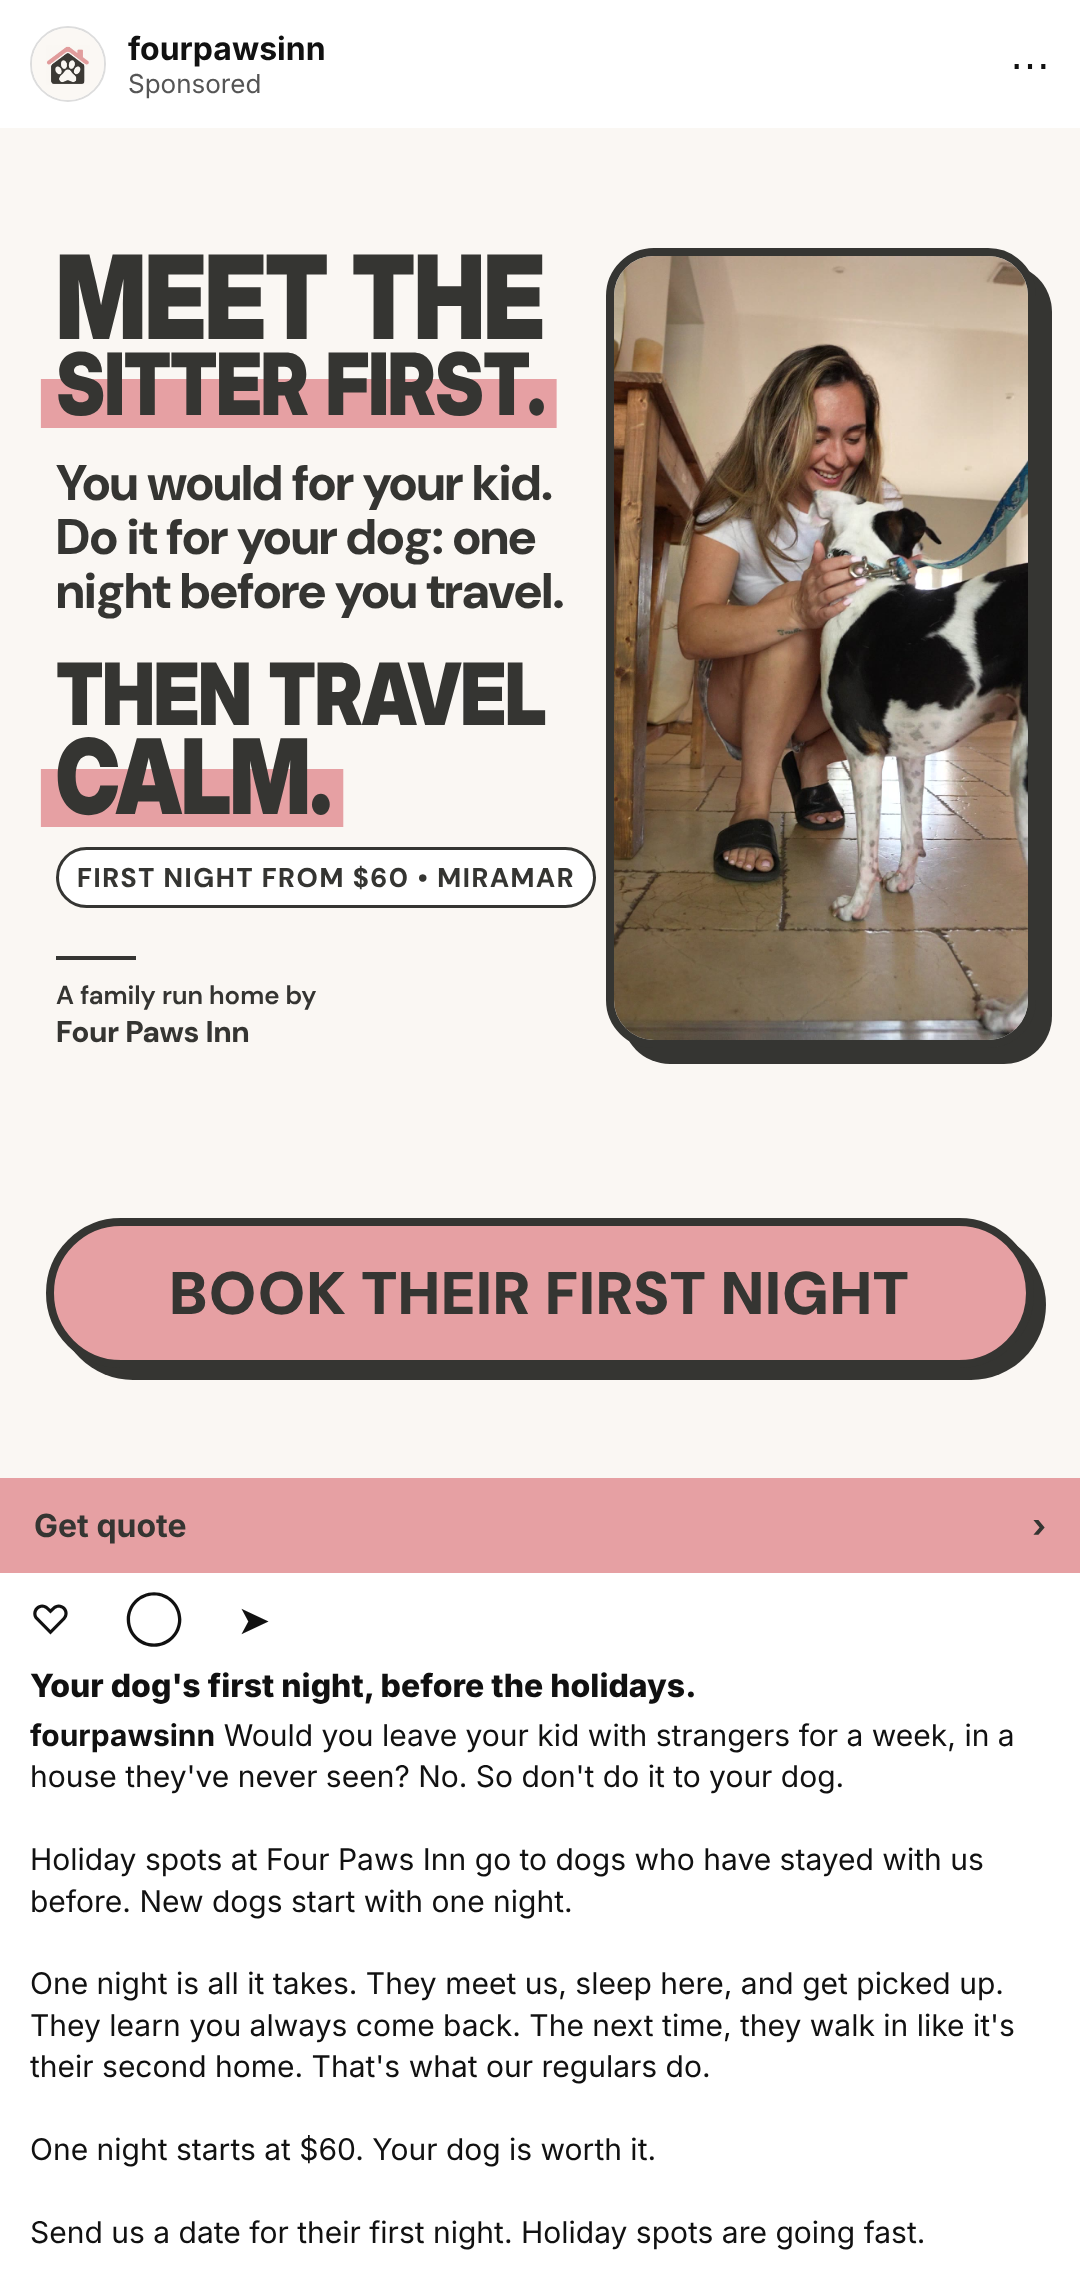
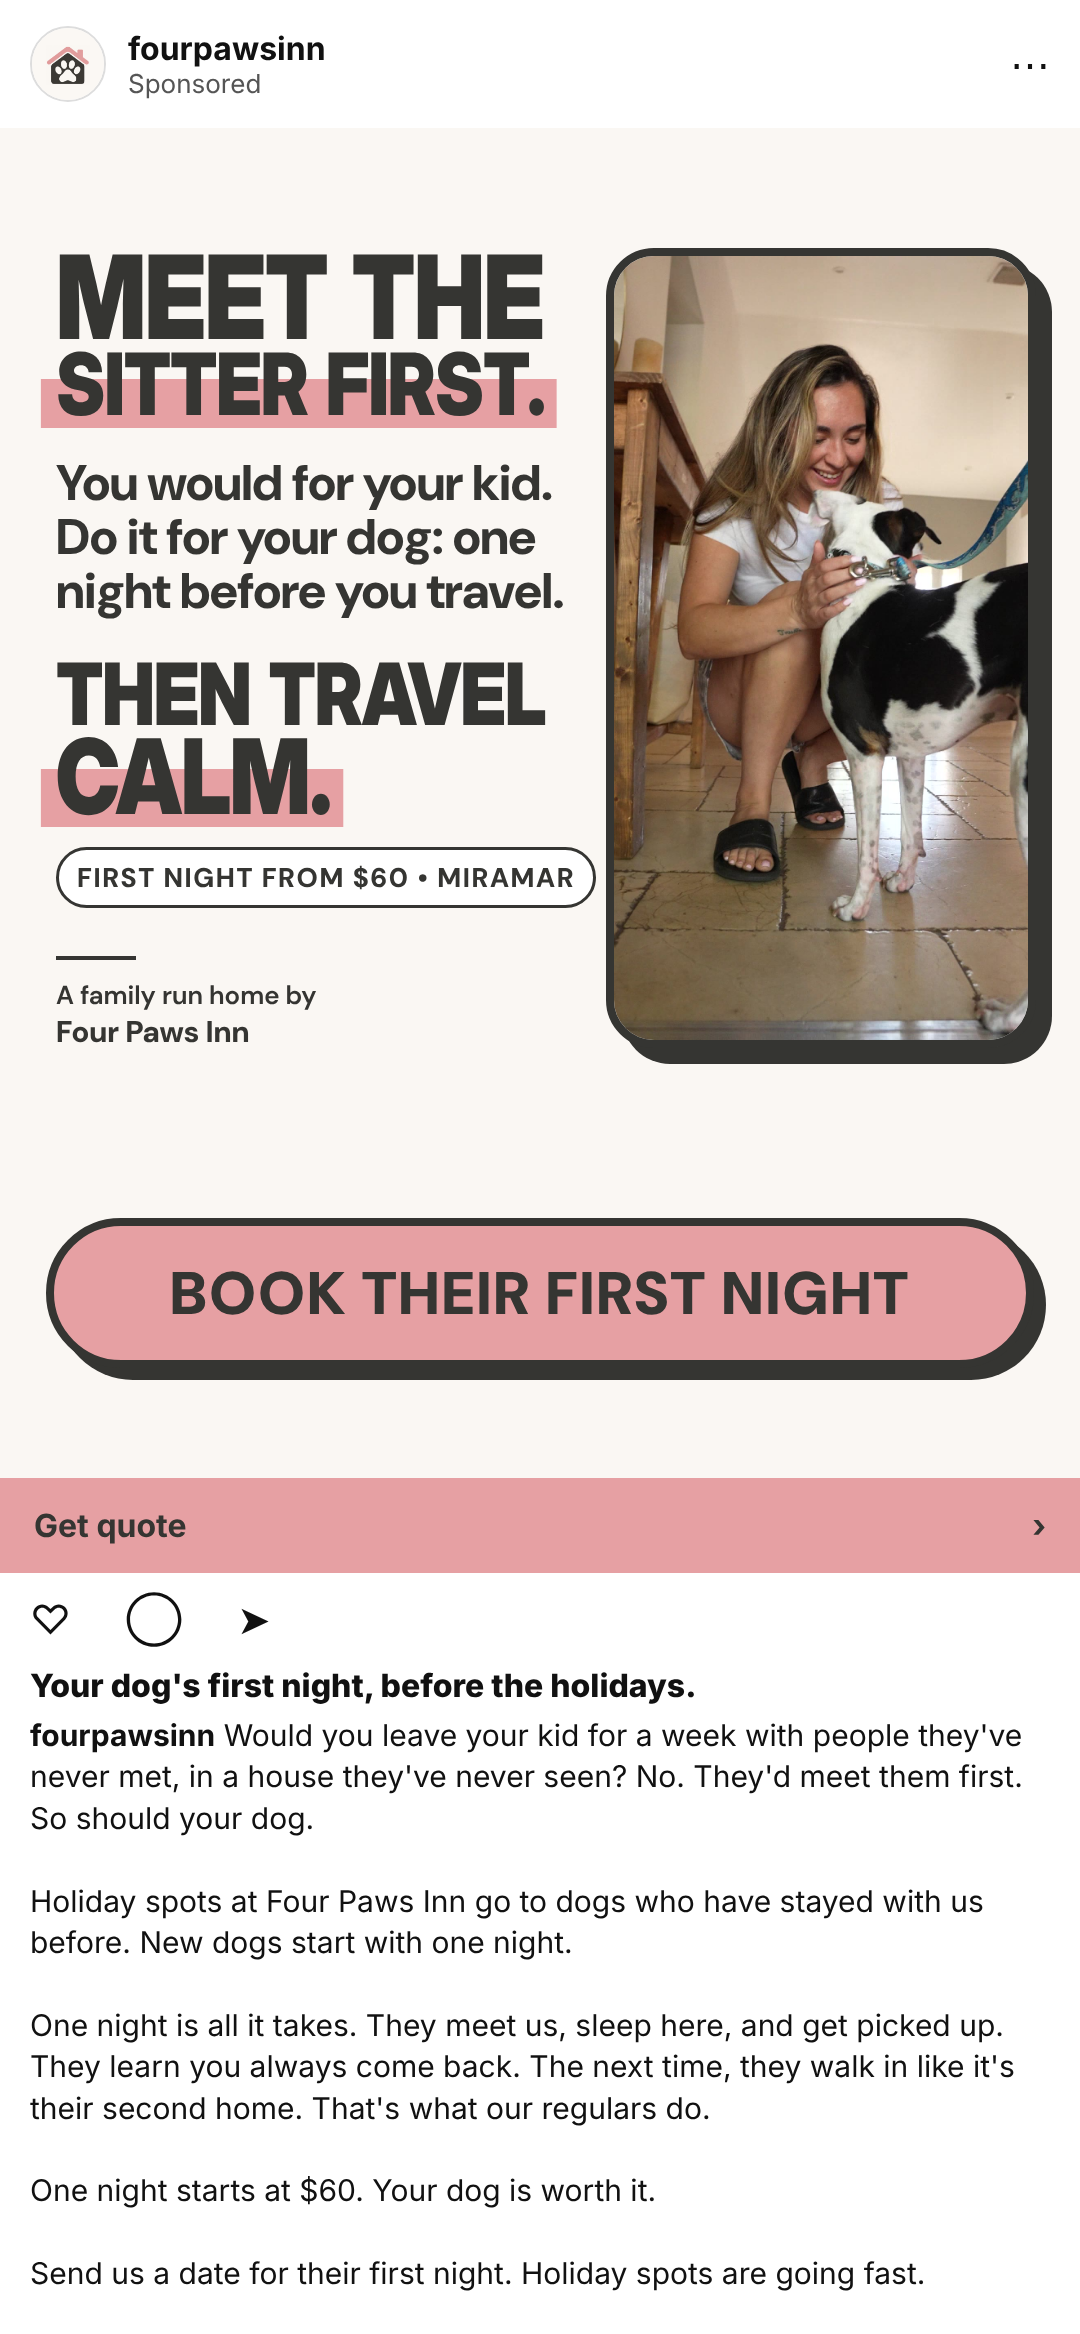
AD61 meet us first, AD68 do it the right way (Alex notes)
Claude-Session: https://claude.ai/code/session_01CuiBP4cscBkzuvo8JUyMNz

diff --git a/content/ads/statics/2026-11-03-first-night-v3/render.js b/content/ads/statics/2026-11-03-first-night-v3/render.js
@@ -2,10 +2,10 @@ const fs=require("fs"),path=require("path");const {chromium}=require("playwright
 const F=(n)=>fs.readFileSync(path.join(__dirname,"../../../../scripts/morning-posts/fonts",n)).toString("base64");
 const ph=(n)=>fs.readFileSync(path.join(__dirname,"photos",n)).toString("base64");
 const ads=[
- {id:"AD61-NOT-WITH-YOUR-KID",a:"NOT WITH",b:"YOUR KID.",sub:"You'd never leave them with strangers for a week. So don't do it to your dog.",c:"TRY 1 NIGHT",d:"FIRST.",tag:"FIRST NIGHT FROM $60  •  MIRAMAR",photo:"couch-husky.jpg",pos:"30% 50%",btn:"BOOK THEIR FIRST NIGHT",bs:60},
+ {id:"AD61-NOT-WITH-YOUR-KID",a:"NOT WITH",b:"YOUR KID.",sub:"You'd never leave them for a week with people they've never met. So let your dog meet us first.",c:"TRY 1 NIGHT",d:"FIRST.",tag:"FIRST NIGHT FROM $60  •  MIRAMAR",photo:"couch-husky.jpg",pos:"30% 50%",btn:"BOOK THEIR FIRST NIGHT",bs:60},
  {id:"AD66-FIRST-SLEEPOVER",a:"FIRST",b:"SLEEPOVER.",sub:"Your kid had one. Give your dog one too, before the holiday trip.",c:"1 NIGHT.",d:"FROM $60.",tag:"BEFORE THE HOLIDAYS  •  MIRAMAR",photo:"puppy-bed.jpg",pos:"30% 50%",btn:"BOOK THEIR FIRST NIGHT",bs:60},
  {id:"AD67-MEET-THE-SITTER",a:"MEET THE",b:"SITTER FIRST.",sub:"You would for your kid. Do it for your dog: one night before you travel.",c:"THEN TRAVEL",d:"CALM.",tag:"FIRST NIGHT FROM $60  •  MIRAMAR",photo:"kneel-indoor.jpg",pos:"50% 50%",btn:"BOOK THEIR FIRST NIGHT",bs:60},
- {id:"AD68-FIRST-NIGHT-ON-CHRISTMAS",a:"FIRST NIGHT",b:"ON CHRISTMAS?",sub:"New place, new faces, and you're gone for days. Do one night now.",c:"1 NIGHT NOW.",d:"FROM $60.",tag:"BEFORE THE HOLIDAYS  •  MIRAMAR",photo:"hug-white-dog.jpg",pos:"35% 50%",btn:"BOOK THEIR FIRST NIGHT",bs:60},
+ {id:"AD68-FIRST-NIGHT-ON-CHRISTMAS",a:"FIRST NIGHT",b:"ON CHRISTMAS?",sub:"New place, new faces, and you're gone for days. Do it the right way.",c:"1 NIGHT NOW.",d:"FROM $60.",tag:"BEFORE THE HOLIDAYS  •  MIRAMAR",photo:"hug-white-dog.jpg",pos:"35% 50%",btn:"BOOK THEIR FIRST NIGHT",bs:60},
  {id:"AD69-NEW-DOG-NOT-ON-HOLIDAYS",a:"NEW DOG?",b:"NOT ON HOLIDAYS.",sub:"Holiday spots go to dogs who have stayed with us before.",c:"BOOK 1 NIGHT",d:"NOW.",tag:"FIRST NIGHT FROM $60  •  MIRAMAR",photo:"yard-lab.jpg",pos:"78% 50%",btn:"BOOK THEIR FIRST NIGHT",bs:60},
  {id:"AD70-A-WEEK-ON-DAY-ONE",a:"A WEEK AWAY",b:"ON DAY ONE?",sub:"You'd never do that to your kid. Start your dog with one night.",c:"START WITH",d:"1 NIGHT.",tag:"FIRST NIGHT FROM $60  •  MIRAMAR",photo:"lab-pool.jpg",pos:"50% 50%",btn:"BOOK THEIR FIRST NIGHT",bs:60}
 ];

diff --git a/content/ads/statics/2026-11-03-first-night-v3/preview.js b/content/ads/statics/2026-11-03-first-night-v3/preview.js
@@ -1,7 +1,7 @@
 const fs=require("fs"),path=require("path");const {chromium}=require("playwright");
 const F=(n)=>fs.readFileSync(path.join(__dirname,"../../../../scripts/morning-posts/fonts",n)).toString("base64");
 const logo=fs.readFileSync(path.join(__dirname,"../../../brand/logo-icon-square-1080.png")).toString("base64");
-const A=`Would you leave your kid with strangers for a week, in a house they've never seen? No. So don't do it to your dog.<br><br>Holiday spots at Four Paws Inn go to dogs who have stayed with us before. New dogs start with one night.<br><br>One night is all it takes. They meet us, sleep here, and get picked up. They learn you always come back. The next time, they walk in like it's their second home. That's what our regulars do.<br><br>One night starts at $60. Your dog is worth it.<br><br>Send us a date for their first night. Holiday spots are going fast.`;
+const A=`Would you leave your kid for a week with people they've never met, in a house they've never seen? No. They'd meet them first. So should your dog.<br><br>Holiday spots at Four Paws Inn go to dogs who have stayed with us before. New dogs start with one night.<br><br>One night is all it takes. They meet us, sleep here, and get picked up. They learn you always come back. The next time, they walk in like it's their second home. That's what our regulars do.<br><br>One night starts at $60. Your dog is worth it.<br><br>Send us a date for their first night. Holiday spots are going fast.`;
 const B=`Call our bluff. Give us one night.<br><br>One on one time first. A slow intro to the group when they're ready. A video update so you can watch them settle in.<br><br>Going away for the holidays? This is the night that matters most. Holiday spots go to dogs who already know us.<br><br>From $60. Send us a date.`;
 const items=[["png/AD61-NOT-WITH-YOUR-KID.png",A],["png/AD66-FIRST-SLEEPOVER.png",A],["png/AD67-MEET-THE-SITTER.png",A],["png/AD68-FIRST-NIGHT-ON-CHRISTMAS.png",B],["png/AD69-NEW-DOG-NOT-ON-HOLIDAYS.png",B],["png/AD70-A-WEEK-ON-DAY-ONE.png",A]];
 const html=(img,txt)=>`<!doctype html><html><head><meta charset="utf-8"><style>

diff --git a/content/ads/statics/2026-11-03-first-night-v3/copy.md b/content/ads/statics/2026-11-03-first-night-v3/copy.md
@@ -4,11 +4,17 @@ Alex, Nov 3: v2 hooks were triggering but didn't make sense ("It's $60" and "Str
 
 | File | Headline | Line | Close |
 |---|---|---|---|
-| AD61 | Not with your kid. | You'd never leave them with strangers for a week. So don't do it to your dog. | Try 1 night first. |
+| AD61 | Not with your kid. | You'd never leave them for a week with people they've never met. So let your dog meet us first. | Try 1 night first. |
 | AD66 | First sleepover. | Your kid had one. Give your dog one too, before the holiday trip. | 1 night. From $60. |
 | AD67 | Meet the sitter first. | You would for your kid. Do it for your dog: one night before you travel. | Then travel calm. |
-| AD68 | First night on Christmas? | New place, new faces, and you're gone for days. Do one night now. | 1 night now. From $60. |
+| AD68 | First night on Christmas? | New place, new faces, and you're gone for days. Do it the right way. | 1 night now. From $60. |
 | AD69 | New dog? Not on holidays. | Holiday spots go to dogs who have stayed with us before. | Book 1 night now. |
 | AD70 | A week away on day one? | You'd never do that to your kid. Start your dog with one night. | Start with 1 night. |
 
 Ad texts A (kid analogy) and B (call our bluff) are the same as v2: content/ads/statics/2026-11-03-first-night-v2/copy.md. Same rules: real photos, "from $60", no outcome or safety promises. Test: one flexible ad, $10 a day challenger slot, after Alex's yes.
+
+## Alex's notes, Nov 3 (applied)
+- AD61: we are the strangers at first, so the ad must not tell people not to leave their dog with strangers. Now: meet us first.
+- AD68: 'Do it the right way' opens a question; the close answers it (1 night now).
+- Ad text A: 'strangers' changed to 'people they've never met... they'd meet them first. So should your dog.'
+- AD66, AD67, AD69, AD70 approved as is.
